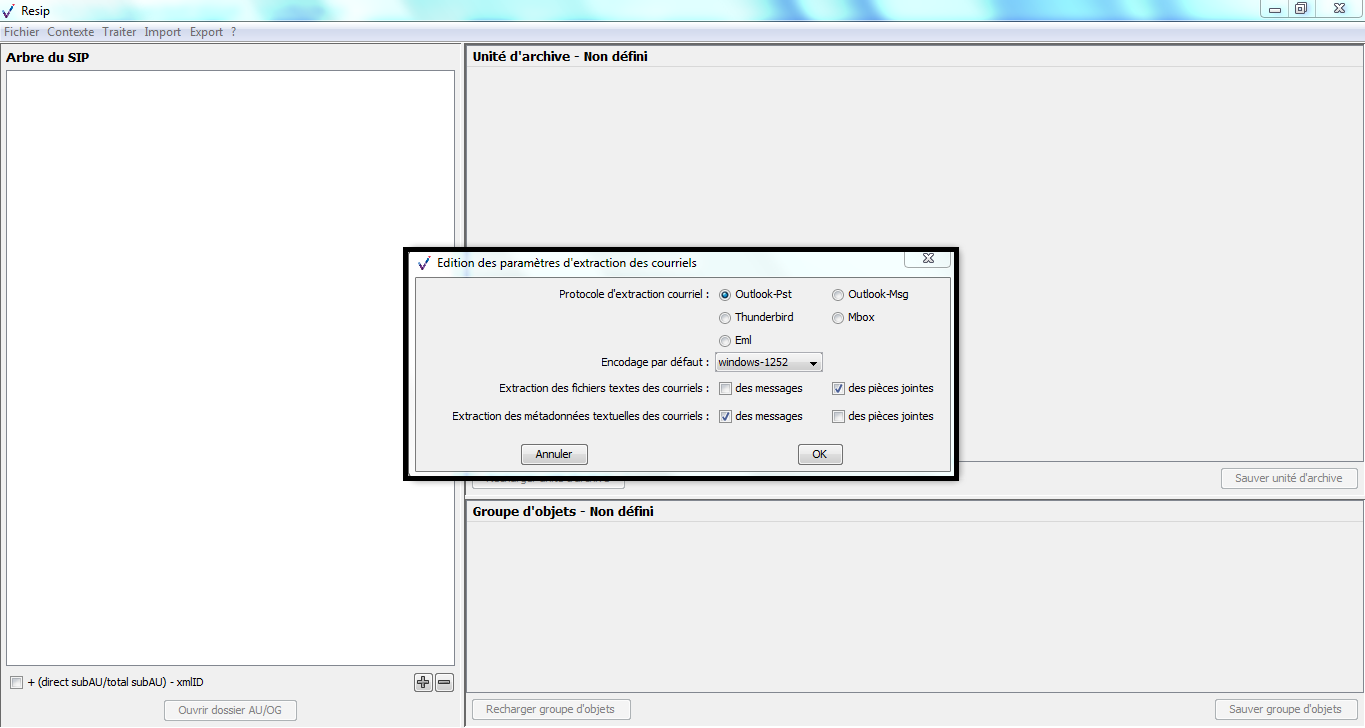
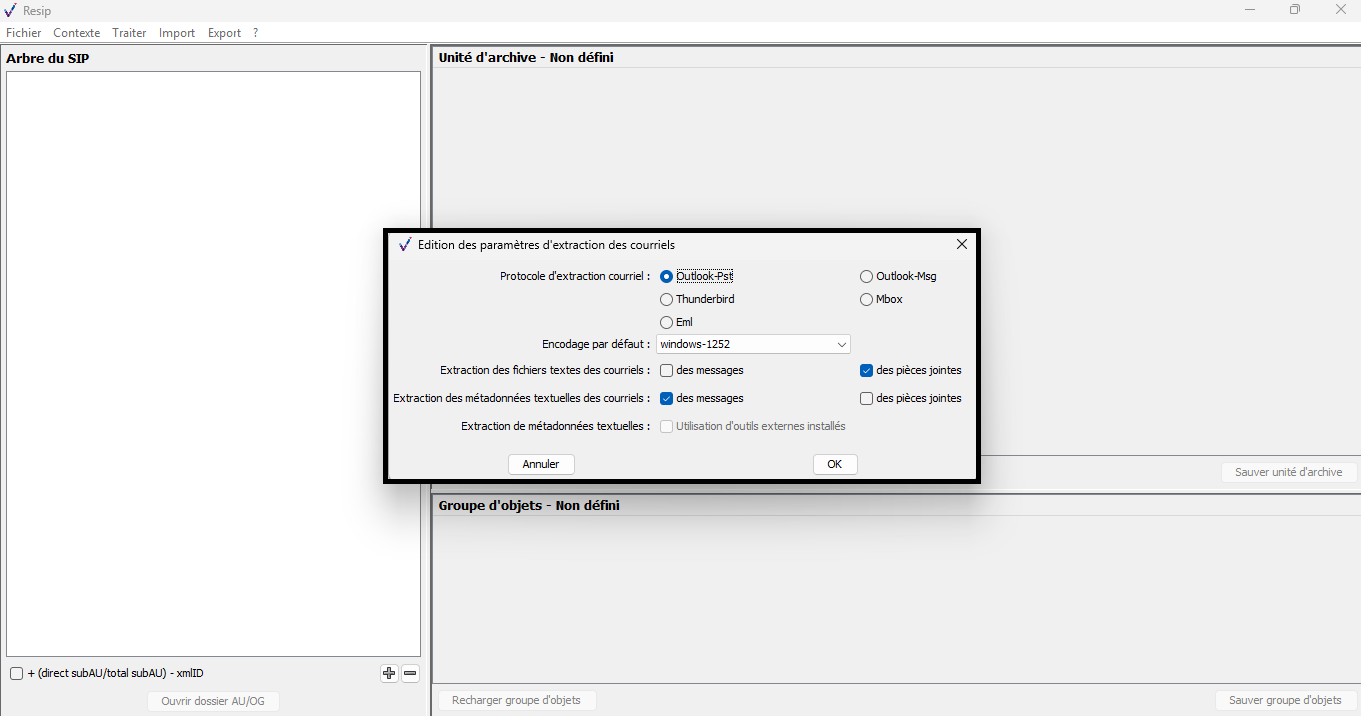
MAJ_2.9.1
changement d'images, ajout du paramètre activant les outils externes à resip lors d'une extraction de messagerie

Changed region(s): [[0.0, 0.0, 1.0, 1.0], [0.0, 0.9218, 0.216, 1.0], [0.8949, 0.9218, 1.0, 1.0]]

diff --git a/source/sections/resip.md b/source/sections/resip.md
@@ -71,7 +71,7 @@ Selon cette formalisation :
     -   la description intellectuelle de ces archives, décrites dans un bloc intitulé Content pour chaque ArchiveUnit ;
     -   la description des règles de gestion applicables à ces archives, décrites soit dans le bloc ManagementMetadata si elles s’appliquent à toutes les archives, soit dans le bloc Management de chaque ArchiveUnit si chacune doit être gérée selon des règles propres.
 
-**La documentation accompagnant le standard SEDA 2.1. est accessible sur le site internet du Service interministériel des Archives de France et est consultable à l’adresse suivante : https://francearchives.fr/seda/** [^2].
+**La documentation accompagnant le standard SEDA 2.X est accessible sur le site internet du Service interministériel des Archives de France et est consultable à l’adresse suivante : https://francearchives.fr/seda/** [^2].
 
 ### Installation de la moulinette ReSIP
 
@@ -159,7 +159,7 @@ Pour mettre à jour des fichiers, il suffit de :
 
 ![](medias/resip/Pictures/100000000000029D000000D32F9D3732CA9940C1.png)
 
-Au terme de la version 6.RC (octobre 2022), la version 2.7 de ReSIP supporte la version 97 des fichiers de signature.
+Au terme de la version 9.1 (printemps 2026), la version 2.9 de ReSIP supporte la version 120 des fichiers de signature.
 
 Présentation de l’interface graphique de la moulinette ReSIP
 ------------------------------------------------------------
@@ -588,7 +588,6 @@ Le paramétrage de l’import est disponible dans l’onglet « Traitement/Inte
 
 ***Point d’attention :*** 
 -   Il est recommandé d’effectuer ce paramétrage avant d’importer quoique ce soit dans la moulinette ReSIP.
--   ReSIP n'intègre pas actuellement la version 2.3. du SEDA. Néanmoins, il est possible d'intégrer à une session de travail les métadonnées ajoutées dans cette version en les gérant comme des métadonnées externes.
 
 #### Activer le mode « debug »
 
@@ -1503,17 +1502,13 @@ puis sur la sous-action « Préférences » (cf. copie d’écran ci-dessous).
 
 ![](medias/resip/Pictures/100002010000033E000001BABB2A3FE9F42480D2.png)
 
-Le clic sur la sous-action « Préférences » ouvre une
+Le clic sur la sous-action « Préférences » ouvre une fenêtre de dialogue composée de cinq onglets. Le paramétrage de l’import est disponible dans l’onglet « Import » (cf. copie d’écran ci-dessous).
 
-fenêtre de dialogue composée de cinq onglets. Le paramétrage de l’import
-est disponible dans l’onglet « Import » (cf. copie d’écran ci-dessous).
 ![](medias/resip/Pictures/ID10.png)
 
 Il permet de :
 
--   sélectionner via un menu déroulant l’encodage utilisé dans le
-    fichier .csv. Par défaut, l’encodage proposé est
-    « windows-1252 » ;
+-   sélectionner via un menu déroulant l’encodage utilisé dans le fichier .csv. Par défaut, l’encodage proposé est « windows-1252 » ;
 -   préciser le séparateur utilisé dans le fichier .csv. Par défaut, le séparateur est un point-virgule.
 
 #### Présentation du fichier d’import
@@ -1754,6 +1749,9 @@ Il permet de :
 -   activer ou désactiver, via des cases à cocher, les fonctionnalités
     d’extraction sous forme d’une métadonnée du contenu textuel des
     messages électroniques et de leurs pièces jointes.
+-   activer l'appel à des outils externes installés sur l'ordinateur de l'utilisateur. Par défaut, ce paramètre est désactivé.
+
+***Attention :*** Après activation de l'appel à des outils externes, il faudra redémarrer ReSIP.
 
 #### Présentation du processus d’import
 
@@ -1802,6 +1800,7 @@ dialogue affichant les paramètres d’import comme décrit dans la [section](#i
 -   modalités d’extraction des propriétés des messages et de leurs
     pièces jointes, sous forme de case à cocher. Seules les options
     retenues seront mises en œuvre lors de l’extraction.
+-   utilisation d'un outil externe d'extraction. Par défaut, le paramètre est désactivé.
 
 ![](medias/resip/Pictures/1000020100000555000002D813CFF81B3D77B51E.png)
 
@@ -2102,7 +2101,7 @@ Une fois l’opération terminée, s’affichent :
     -   un numéro d’ordre du doublon ;
     -   le nombre d’unités archivistiques concernées ;
     -   le nombre de groupes d’objets concernés ;
-    -   le nom de la 1^ère^ occurrence identifiée du fichier concerné ;
+    -   le nom de la 1ère occurrence identifiée du fichier concerné ;
     -   la taille du fichier concerné ;
     -   le format du fichier concerné (identifiant PRONOM) ;
     -   le type Mime du fichier concerné ;
@@ -2127,7 +2126,7 @@ Une fois l’opération terminée, s’affichent :
     d’écran ci-dessous). Au-dessus de la liste, à droite de la fenêtre
     de dialogue, est indiquée, parmi le nombre de résultats, la position
     de l’unité archivistique et du groupe d’objets techniques concernés
-    dans l’arborescence (ex. 1/4 indique qu’il est la 1^ere^ occurrence
+    dans l’arborescence (ex. 1/4 indique qu’il est la 1ère occurrence
     sur les 4 existantes) ;
     ![](medias/resip/Pictures/1000020100000555000002D95F1F7D4DA8F877B6.png)
 
@@ -2189,7 +2188,7 @@ convient, dans le menu de la moulinette ReSIP, de :
     de la fenêtre de dialogue, est indiquée, parmi le nombre de
     résultats, la position de l’unité archivistique ou du groupe
     d’objets techniques concernés dans l’arborescence (ex. 2/2 indique
-    qu’il est la 2^e^ occurrence sur les 2 existantes) ;
+    qu’il est la 2ème occurrence sur les 2 existantes) ;
     ![](medias/resip/Pictures/1000020100000555000002DADE6FAB6B815B9DB6.png)
 
 -   lancer l’action de nettoyage qui peut être
